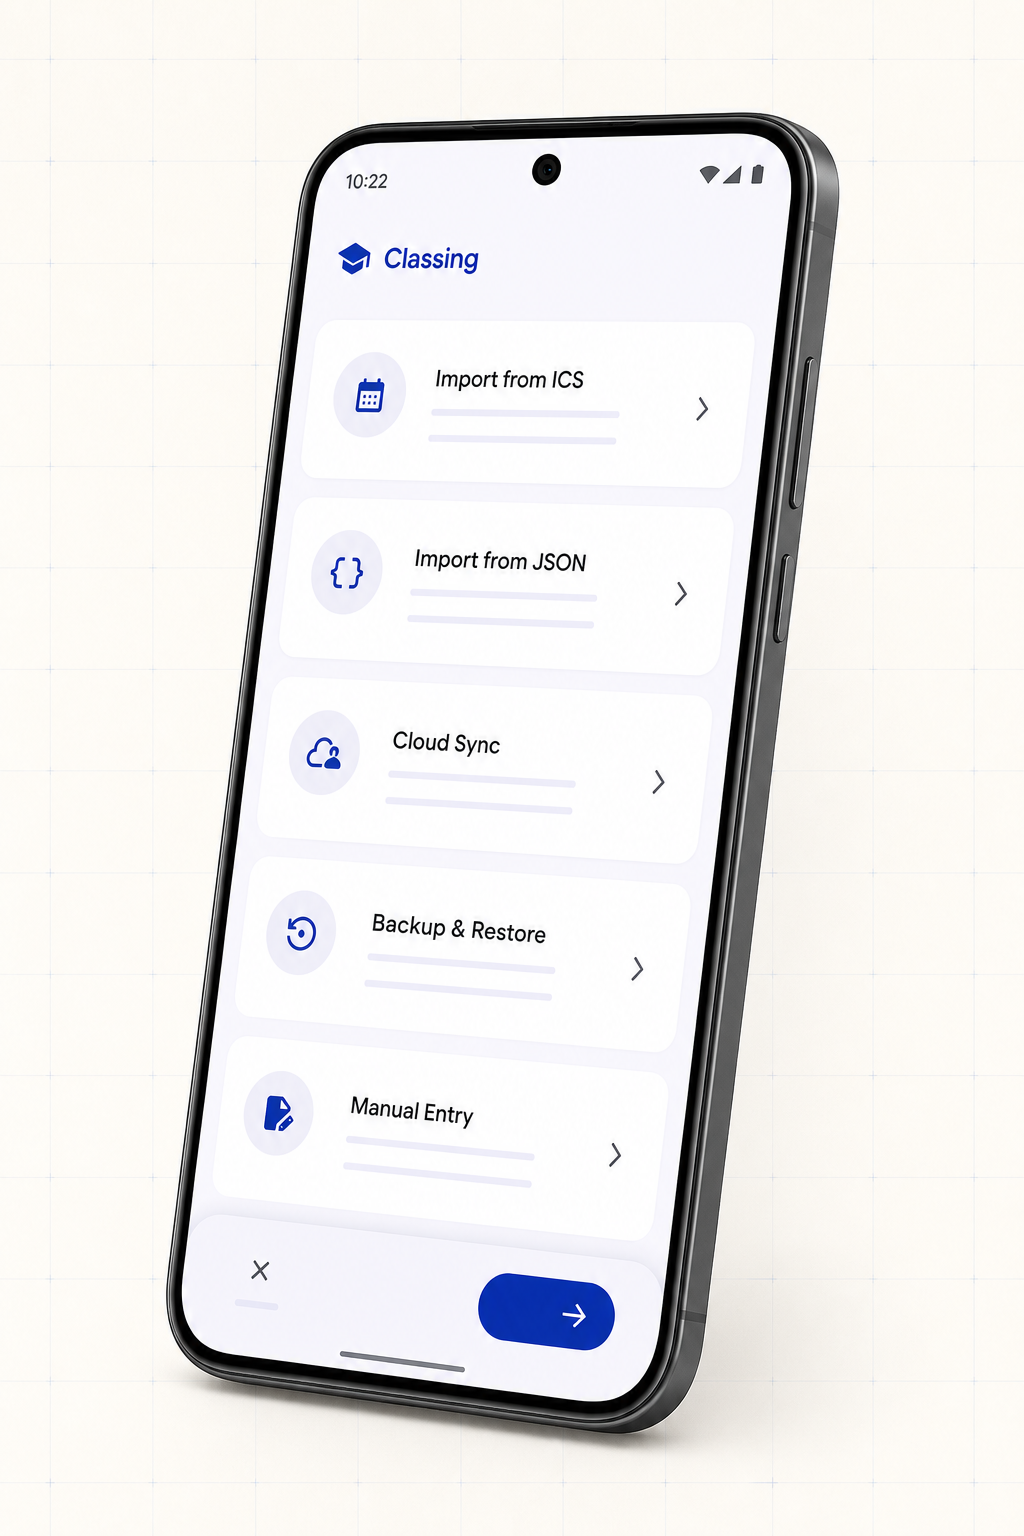
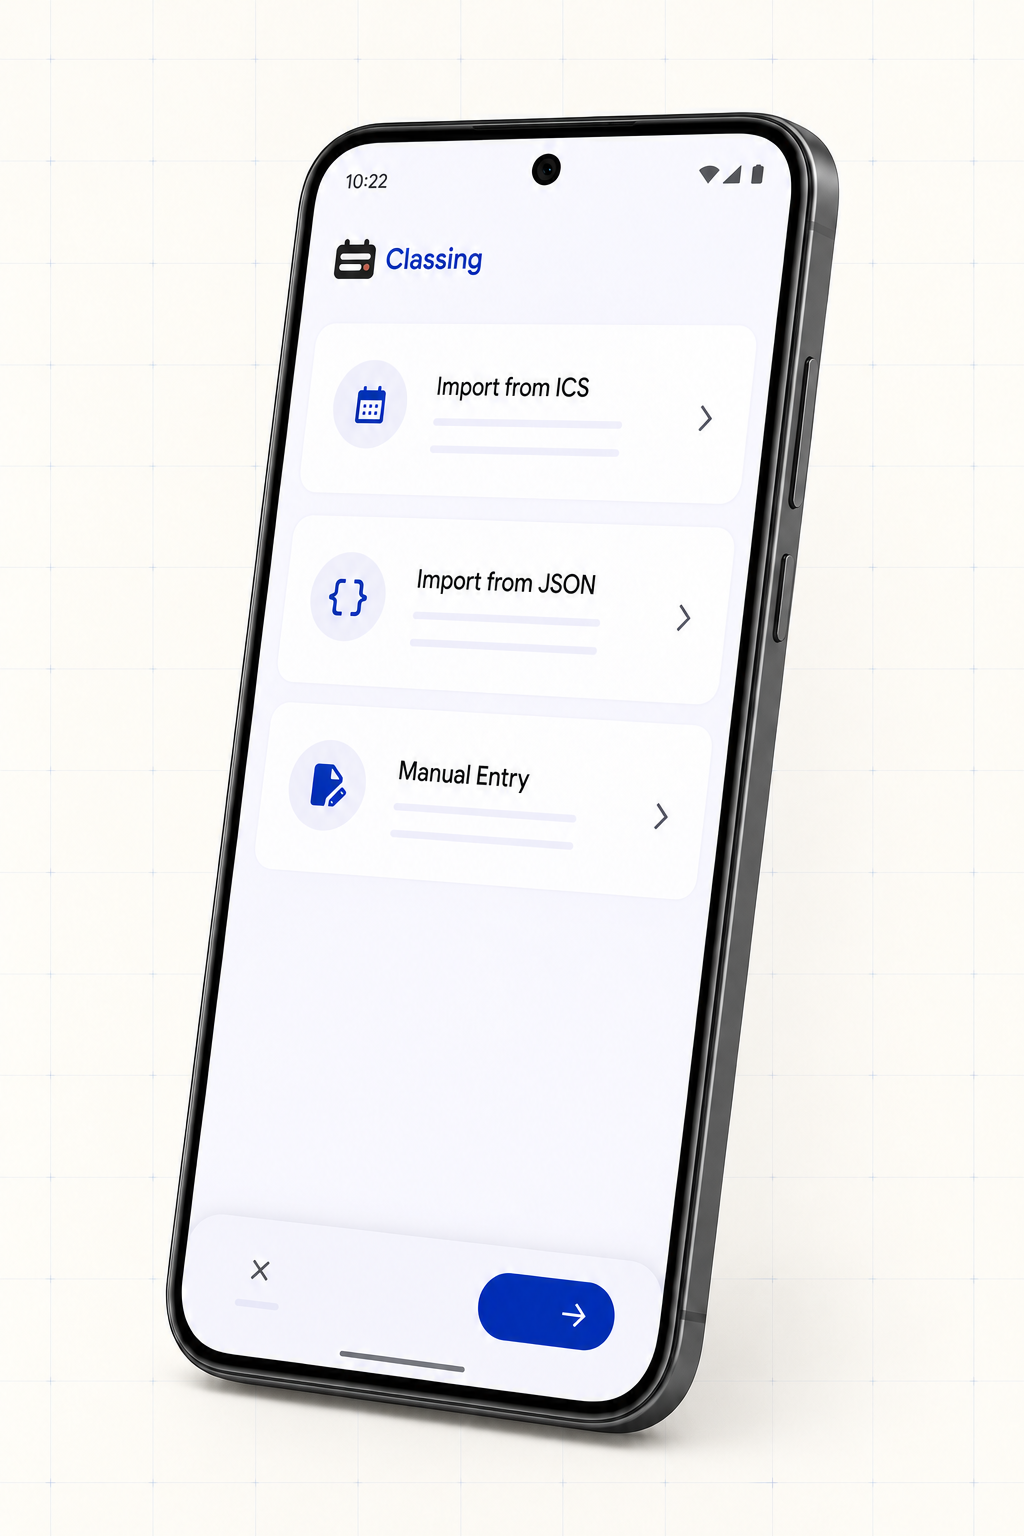
docs: align import illustration with the selected brand and three entry pages

diff --git a/website/src/App.jsx b/website/src/App.jsx
@@ -20,7 +20,6 @@ const REPO_URL = "https://github.com/xtawa/WearOS_ClassingTimeTable";
 const importMethods = [
   { icon: CalendarBlank, label: "从教务系统导入", meta: ".ics" },
   { icon: BracketsCurly, label: "从文件导入", meta: ".json" },
-  { icon: CloudArrowUp, label: "云端同步与备份", meta: "Google Drive / WebDAV" },
   { icon: PencilSimple, label: "手动创建", meta: "自由安排课程与时间" },
 ];
 

diff --git a/doc/brand/README.md b/doc/brand/README.md
@@ -6,3 +6,5 @@
 - AI 生成原始素材：exec-707a367f-6160-4061-8c89-83c06a831e2f / exec-dedd7407-18a2-4758-8493-820bfc55df4e。
 - 提示词：保持 F 的时间页、两个圆角课程槽与时间点，平面无阴影；暖白 #F6F3EA、炭黑 #202020、陶土 #C8795D；标记占画布约 58%，适配圆形裁切。
 - 仅机械缩放为 512px，Mobile、Wear、Web 管理台与官网共享这套资产；暗色跟随相应界面主题。
+
+官网导入示意图已同步 F 标记与 ICS / JSON / Manual Entry 三种入口。生成源：exec-c586ab26-3b21-4ddc-94dd-4dfaecf7fd1d.png；编辑提示：保留手机、透视、纸面网格背景及圆角卡片，只替换标题旁的旧标记并移除云同步/备份两张导入卡片。
